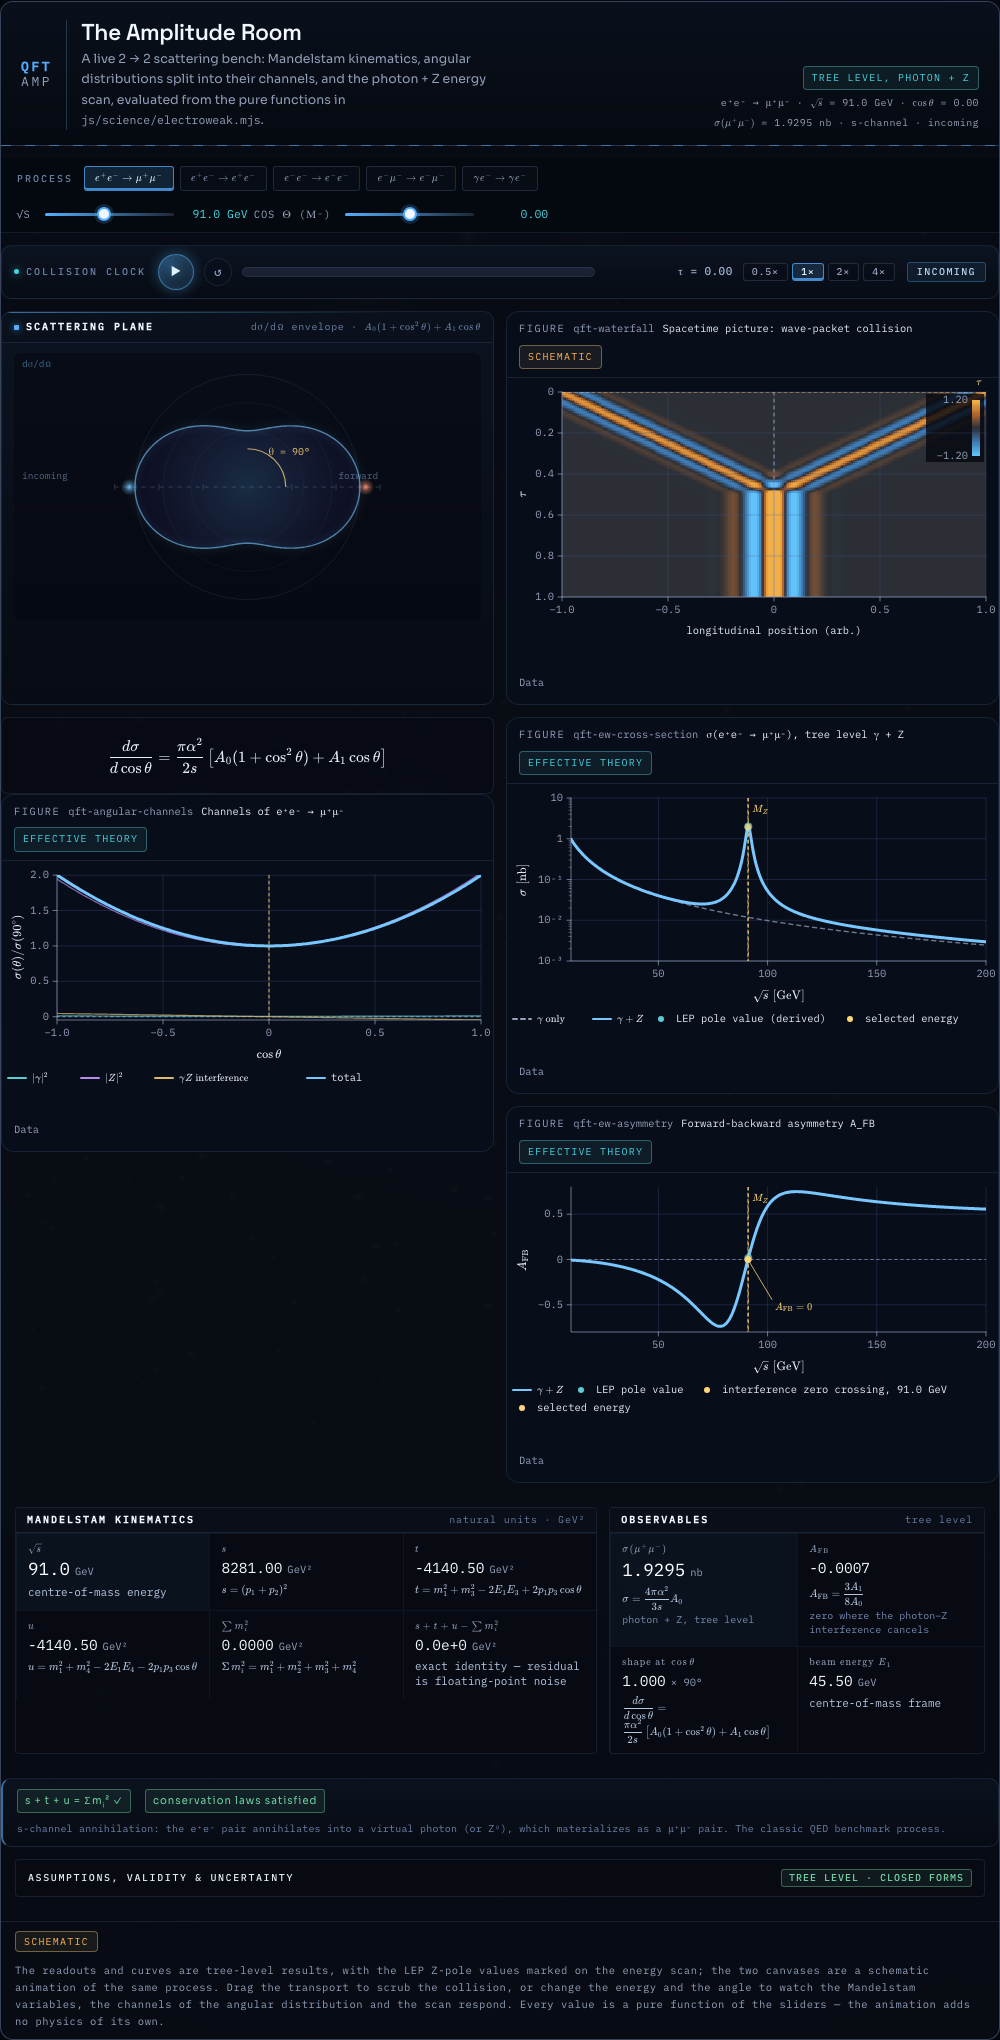
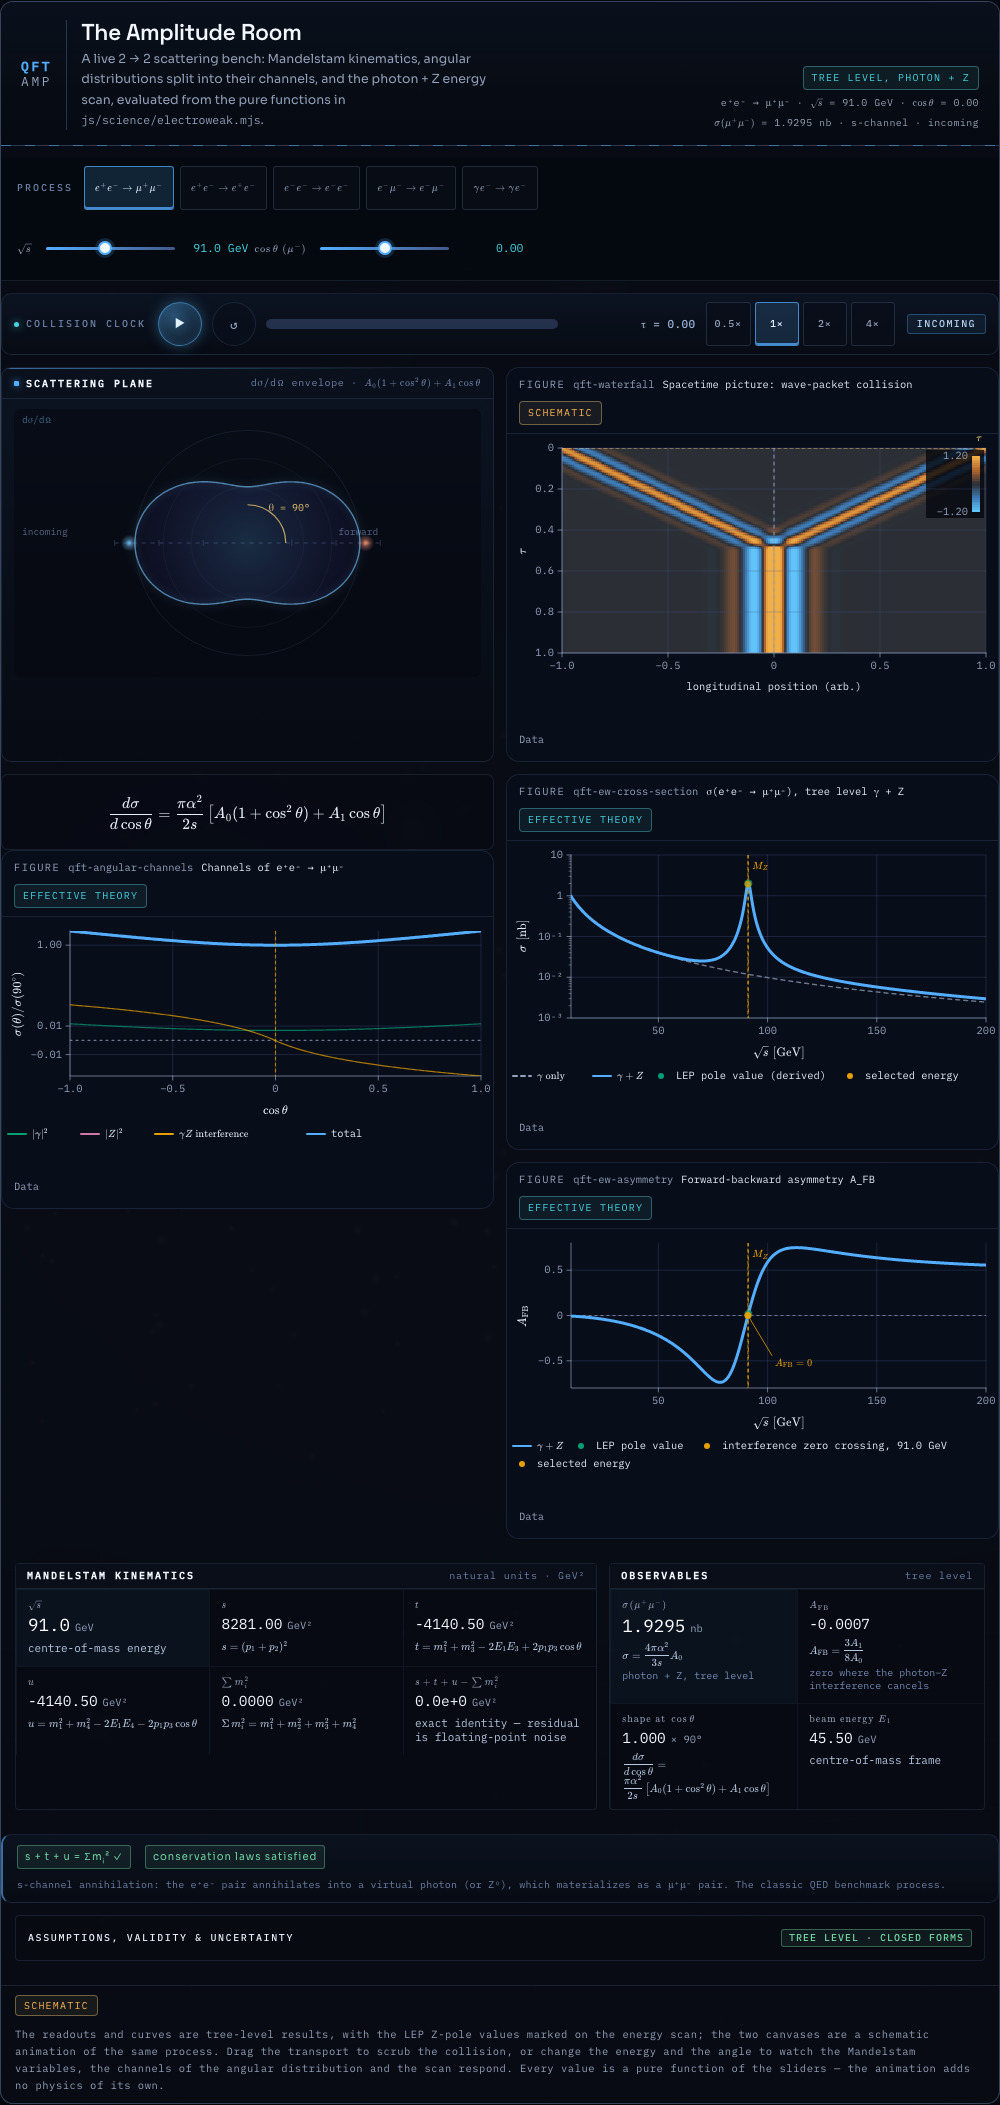
fix(qft): close the gaps of S16 against the art direction and the accessibility rule
Token colours instead of pigments (and the two orphaned pigments removed),
1.5 px diagram strokes, 44 px targets in the amplitude room and the builder,
no sideways overflow at 390 px, KaTeX slider labels, a symmetric-logarithmic
channel figure whose small terms are visible, a legend of every line kind, and
the unused photon and Z-resonance figures removed. Decision D-098.

diff --git a/js/labs/amplitude-room.jsx b/js/labs/amplitude-room.jsx
@@ -9,7 +9,7 @@ const QFT_M_E = 0.51099895e-3; // GeV — electron rest energy (CODATA)
 const QFT_PROCESSES = [
 {
   id: "s-channel",
-  name: "e⁺e⁻ → μ⁺μ⁻", nameTex: "e^+e^-\\to\\mu^+\\mu^-",
+  name: "e⁺e⁻ → μ⁺μ⁻", nameTex: "e^+e^-\\to\\mu^+\\mu^-", angleTex: "\\cos\\theta\\ (\\mu^-)",
   sub: "γ + Z exchange",
   in: ["e-", "e+"], out: ["mu-", "mu+"],
   masses: [0, 0, 0, 0],
@@ -21,7 +21,7 @@ const QFT_PROCESSES = [
 },
 {
   id: "bhabha",
-  name: "e⁺e⁻ → e⁺e⁻", nameTex: "e^+e^-\\to e^+e^-",
+  name: "e⁺e⁻ → e⁺e⁻", nameTex: "e^+e^-\\to e^+e^-", angleTex: "\\cos\\theta\\ (e^-)",
   sub: "Bhabha scattering",
   in: ["e-", "e+"], out: ["e-", "e+"],
   masses: [0, 0, 0, 0],
@@ -33,7 +33,7 @@ const QFT_PROCESSES = [
 },
 {
   id: "moller",
-  name: "e⁻e⁻ → e⁻e⁻", nameTex: "e^-e^-\\to e^-e^-",
+  name: "e⁻e⁻ → e⁻e⁻", nameTex: "e^-e^-\\to e^-e^-", angleTex: "\\cos\\theta\\ (e^-)",
   sub: "Møller scattering",
   in: ["e-", "e-"], out: ["e-", "e-"],
   masses: [0, 0, 0, 0],
@@ -45,7 +45,7 @@ const QFT_PROCESSES = [
 },
 {
   id: "t-channel",
-  name: "e⁻μ⁻ → e⁻μ⁻", nameTex: "e^-\\mu^-\\to e^-\\mu^-",
+  name: "e⁻μ⁻ → e⁻μ⁻", nameTex: "e^-\\mu^-\\to e^-\\mu^-", angleTex: "\\cos\\theta\\ (e^-)",
   sub: "t-channel exchange",
   in: ["e-", "mu-"], out: ["e-", "mu-"],
   masses: [0, 0, 0, 0],
@@ -57,7 +57,7 @@ const QFT_PROCESSES = [
 },
 {
   id: "compton",
-  name: "γe⁻ → γe⁻", nameTex: "\\gamma e^-\\to\\gamma e^-",
+  name: "γe⁻ → γe⁻", nameTex: "\\gamma e^-\\to\\gamma e^-", angleTex: "\\cos\\theta\\ (\\gamma)",
   sub: "Compton scattering",
   in: ["ph", "e-"], out: ["ph", "e-"],
   masses: [0, QFT_M_E, 0, QFT_M_E],
@@ -329,12 +329,12 @@ function AmplitudeRoom() {
           )}
         </div>
         <div className="kerr-control-group" aria-label="Kinematic controls">
-          <SliderRow label="√s" min={1} max={200} step={0.5} value={sqrtS}
+          <SliderRow label="√s" labelTex="\sqrt{s}" min={1} max={200} step={0.5} value={sqrtS}
           onChange={(v) => setAtlasState({ qftSqrtS: v })} format={(v) => v.toFixed(1) + " GeV"}></SliderRow>
-          <SliderRow label={process.angleLabel} min={-1} max={1} step={0.01} value={cosTheta}
+          <SliderRow label={process.angleLabel} labelTex={process.angleTex} min={-1} max={1} step={0.01} value={cosTheta}
           onChange={(v) => setAtlasState({ qftAngle: v })} format={(v) => v.toFixed(2)}></SliderRow>
           {process.id === "compton" ?
-          <SliderRow label="x = E_γ/mₑc²" min={0.05} max={20} step={0.05} value={photonX}
+          <SliderRow label="x = E_γ/mₑc²" labelTex="x=E_\gamma/m_ec^2" min={0.05} max={20} step={0.05} value={photonX}
           onChange={(v) => setAtlasState({ qftPhotonX: v })} format={(v) => v.toFixed(2)}></SliderRow> :
           null}
         </div>

diff --git a/styles/modules/qft.css b/styles/modules/qft.css
@@ -106,6 +106,22 @@
 }
 
 
+/* Touch targets of the amplitude room and the Feynman builder (S16): every control is at least 44 px in both directions. The look is unchanged:
+   the slider track and the progress bar keep their thin drawn size inside a taller hit area. */
+.qft-room .kerr-chip, .qft-room .gw-play-btn, .qft-room .gw-replay-btn { min-width: 44px; min-height: 44px; }
+.qft-room .gw-speed .kerr-chip { padding: 3px 8px; }
+.fey-row select, .qft-room select { min-height: 44px; }
+.qft-room .kerr-validity summary { min-height: 44px; box-sizing: border-box; }
+.qft-room .kerr-control-group { max-width: 100%; box-sizing: border-box; }
+.qft-room .kerr-control-group .ctl-row { max-width: 100%; box-sizing: border-box; }
+.qft-room input[type="range"] { height: 44px; background: transparent; }
+.qft-room input[type="range"]::-webkit-slider-runnable-track { height: 3px; border-radius: 2px; background: linear-gradient(90deg, var(--acc), var(--ink-faint)); }
+.qft-room input[type="range"]::-webkit-slider-thumb { margin-top: -6px; }
+.qft-room input[type="range"]::-moz-range-track { height: 3px; border-radius: 2px; background: linear-gradient(90deg, var(--acc), var(--ink-faint)); }
+.qft-room .gw-progress { position: relative; height: 44px; overflow: visible; background: none; border: 0; border-radius: 0; }
+.qft-room .gw-progress::before { content: ""; position: absolute; left: 0; right: 0; top: 17px; height: 10px; border-radius: 5px; background: var(--ink-faint); opacity: 0.45; }
+.qft-room .gw-progress-fill { position: absolute; left: 0; top: 17px; height: 10px; }
+
 /* Figure Kit panels in the amplitude room. */
 .qft-stack { display: grid; gap: 12px; }
 .qft-formula + .fig, .qft-stack .fig { margin-top: 0; }

diff --git a/js/labs/feynman-diagram.jsx b/js/labs/feynman-diagram.jsx
@@ -4,8 +4,8 @@
 // animation above it carries the motion.
 
 const FEYNMAN_ROLE_TOKENS = {
-  fermion: "pigment-blue-80", photon: "pigment-amber-80", boson: "pigment-amber-89", gluon: "pigment-cyan-80", scalar: "ink-dim",
-  vertex: "accent", momentum: "pigment-blue-63",
+  fermion: "ink", photon: "cat-1", boson: "cat-6", gluon: "cat-7", scalar: "ink-dim",
+  vertex: "accent", momentum: "ink-dim",
 };
 const FEYNMAN_ANCHOR_SHIFT = { start: "translate(0, -50%)", middle: "translate(-50%, -50%)", end: "translate(-100%, -50%)" };
 const FEYNMAN_ARROW = "-4,-3.5 4,0 -4,3.5";
@@ -49,6 +49,18 @@ function FeynmanDiagram({ def, ariaLabel }) {
         )}
       </div>
     </div>);
+
+}
+
+/* The key to the line conventions: one line of every kind the drawing knows, folded away until asked for. */
+function FeynmanLegend() {
+  const def = useMemo(() => window.QGA_FEYNMAN.legendDiagram(), []);
+  return (
+    <details className="fey-legend">
+      <summary>Line conventions</summary>
+      <FeynmanDiagram def={def}
+      ariaLabel="Key to the lines of the diagrams: fermion, antifermion, photon, W or Z boson, gluon and scalar."></FeynmanDiagram>
+    </details>);
 
 }
 

diff --git a/styles/components-scene.css b/styles/components-scene.css
@@ -16,6 +16,9 @@ select:focus { border-color: var(--acc); }
 .fey-diagram-pair { grid-template-columns: repeat(auto-fit, minmax(min(100%, 320px), 1fr)); }
 .fey-diagram-fig { margin: 0; min-width: 0; }
 .fey-diagram-cap { font: var(--step--2) var(--font-mono); letter-spacing: 0.08em; color: var(--text-dim); margin-bottom: 4px; }
+.fey-legend { margin-top: 10px; }
+.fey-legend summary { min-height: 44px; display: flex; align-items: center; cursor: pointer; font: var(--step--2) var(--font-mono); letter-spacing: 0.08em; color: var(--text-dim); }
+.fey-legend summary:focus-visible { outline: 2px solid var(--acc); outline-offset: 2px; }
 .fey-diagram { position: relative; }
 .fey-diagram svg { display: block; width: 100%; height: auto; }
 .fey-tex-layer { position: absolute; inset: 0; pointer-events: none; }

diff --git a/js/core.jsx b/js/core.jsx
@@ -301,10 +301,10 @@ function ModuleHeader({ num, kicker, title, lede, label }) {
 }
 
 /* ---------- controls ---------- */
-function SliderRow({ label, min, max, step, value, onChange, format }) {
+function SliderRow({ label, labelTex, min, max, step, value, onChange, format }) {
   return (
     <div className="ctl-row">
-      <span className="ctl-label">{label}</span>
+      <span className="ctl-label">{labelTex ? <Eq tex={labelTex}></Eq> : label}</span>
       <input type="range" min={min} max={max} step={step} value={value}
         onChange={(e) => onChange(parseFloat(e.target.value))} aria-label={label}></input>
       <span className="ctl-value">{format ? format(value) : value}</span>

diff --git a/styles/components.css b/styles/components.css
@@ -101,6 +101,7 @@ sub, sup { font-size: max(10px, 0.8em); }
 /* ---------- Controls ---------- */
 .ctl-row { display: flex; align-items: center; gap: 12px; min-width: 220px; }
 .ctl-label { font-family: var(--font-mono); font-size: 10.5px; letter-spacing: 0.08em; text-transform: uppercase; color: var(--text-dim); white-space: nowrap; }
+.ctl-label .katex { text-transform: none; }
 .ctl-value { font-family: var(--font-mono); font-size: 11.5px; color: var(--cyan); white-space: nowrap; min-width: 60px; text-align: right; }
 input[type="range"] {
   -webkit-appearance: none; appearance: none; flex: 1; height: 3px; min-width: 90px;

diff --git a/styles/tokens.css b/styles/tokens.css
@@ -271,7 +271,6 @@
   --pigment-blue-83: #b6c8f0;
   --pigment-blue-82: #9fc8ff;
   --pigment-blue-81: #aac3e6;
-  --pigment-blue-80: #aebfdd;
   --pigment-blue-79: #8cbeff;
   --pigment-blue-79-c11: #9db8ff;
   --pigment-blue-78-c05: #aab8d6;
@@ -290,7 +289,6 @@
   --pigment-blue-68: #8899bb;
   --pigment-blue-67: #7896d2;
   --pigment-blue-64: #6e8cc8;
-  --pigment-blue-63: #7e8ba1;
   --pigment-blue-62-c20: #4a7dff;
   --pigment-blue-62: #7a6cff;
   --pigment-blue-60: #5382c8;

diff --git a/js/mod-qft.jsx b/js/mod-qft.jsx
@@ -328,6 +328,7 @@ function FeynmanBuilder() {
         {result.ok ?
         <div>
             <FeynmanDiagramSet result={result} ids={[in1, in2, out1, out2]}></FeynmanDiagramSet>
+            <FeynmanLegend></FeynmanLegend>
             <div className="fey-verdict ok"><strong>Allowed at tree level.</strong> {result.note}</div>
             {phys ?
           <div className="fey-phys-grid">

diff --git a/docs/render/electroweak-feynman.md b/docs/render/electroweak-feynman.md
@@ -57,11 +57,11 @@ Massless, spin averaged: `<|M|^2> = 2 e^4 [ (s^2+u^2)/t^2 + 2u^2/(st) + (t^2+u^2
 
 ## Diagrams
 
-`layoutDiagram` returns paths, arrows, dots, labels and momentum arrows for `{ vertices, edges }`. Fermion arrows sit at `t = 0.5` of the segment (reversed for an antifermion); a photon is a sine of an integer number of half-periods, so it starts and ends on its vertices; a gluon is a trochoid whose loop count is proportional to its length; a scalar is dashed; internal vertices are dots of 3 px; labels are KaTeX spans over the SVG; momentum arrows are offset parallel to the edge. Colours are tokens read in `js/labs/feynman-diagram.jsx`; the module has none. The builder draws every tree diagram of the process: s and t for Bhabha, t and u for Møller, s and u for Compton. The old streaming animation of the lines and the travelling dot were removed with `FeynmanSVG`; the 3-D collision above still moves.
+`layoutDiagram` returns paths, arrows, dots, labels and momentum arrows for `{ vertices, edges }`. Fermion arrows sit at `t = 0.5` of the segment (reversed for an antifermion); a photon is a sine of an integer number of half-periods, so it starts and ends on its vertices; a gluon is a trochoid whose loop count is proportional to its length; a scalar is dashed; internal vertices are dots of 3 px; labels are KaTeX spans over the SVG; momentum arrows are offset parallel to the edge. Strokes are 1.5 px (momentum arrows 1 px), the limit of the art direction for engraved geometry. Colours are tokens read in `js/labs/feynman-diagram.jsx` (ink, the categorical set and the accent, not the frozen pigments); the module has none. A folded "Line conventions" key under the builder draws every kind the module knows (`legendDiagram`), including the gluon, the W or Z boson and the scalar, which no process diagram uses. The builder draws every tree diagram of the process: s and t for Bhabha, t and u for Møller, s and u for Compton. The old streaming animation of the lines and the travelling dot were removed with `FeynmanSVG`; the 3-D collision above still moves.
 
 ## Figures and the shared axis
 
-`crossSectionSpec` (log y) and `asymmetrySpec` are two Figure Kit figures with the same x range, the same ticks and `minLeft = 64`, a new optional spec field that fixes the least left margin so both plot rectangles coincide (`test/figure-layout.test.mjs`). The focal mark of each is the gamma + Z model line; the Z pole is a rule, the LEP points are on the data layer, the interference zero crossing is a marked point with a callout. `channelsSpec` draws the terms of the selected process as thin lines and their sum as the focal line.
+`crossSectionSpec` (log y) and `asymmetrySpec` are two Figure Kit figures with the same x range, the same ticks and `minLeft = 64`, a new optional spec field that fixes the least left margin so both plot rectangles coincide (`test/figure-layout.test.mjs`). The focal mark of each is the gamma + Z model line; the Z pole is a rule, the LEP points are on the data layer, the interference zero crossing is a marked point with a callout. `channelsSpec` draws the terms of the selected process as thin lines and their sum as the focal line, on a symmetric-logarithmic axis (linear within 0.01 of the 90 degree value) so the photon term on the Z pole and a Coulomb pole share one axis. Every control of the room and the builder is at least 44 px (`styles/modules/qft.css`), with the drawn size of the slider tracks and of the progress bar unchanged.
 
 ## Checks
 

diff --git a/docs/render/figure-kit.md b/docs/render/figure-kit.md
@@ -76,7 +76,7 @@ Ticks are nice 1-2-5 numbers inside the domain; log axes label decades as 10^n a
 | `bh-hawking-spectrum`, `bh-page-curve`, `bh-kerr-radii` | `mod-blackholes.jsx` | emitter line and band; two curves and a rule; nested circles |
 | `gr-effective-potential`, `gr-null-geodesics`, `gr-lensed-sky` | `mod-gr.jsx` | GR and Newtonian curves with turning points and a live marker; rays and circles; ring chrome over the rendered sky |
 | `rg-scale-trajectory`, `rg-beta-function` | `mod-gauge-rg.jsx` | trajectory, fixed-point rules, selected-scale marker; beta curve with phase-line triangles |
-| `qft-dispersion`, `qft-waterfall`, `qft-angular-distribution`, `qft-photon-cross-section`, `qft-z-resonance` | `mod-qft.jsx` | lines, diverging heat map, log axis |
+| `qft-dispersion`, `qft-waterfall`, `qft-angular-distribution`, `qft-angular-channels`, `qft-ew-cross-section`, `qft-ew-asymmetry` | `mod-qft.jsx`, `labs/amplitude-room.jsx` | lines, diverging heat map, log and symlog axes; the two energy figures are stacked over one plot rectangle (`minLeft`) |
 | `experiments-dielectron-mass`, `gw-strain-generated` / `gw-strain-observation`, `gw-spectrogram` | `mod-experiments.jsx` | step and points with Poisson errors; ghost and revealed traces with phase bands; magma heat map with the chirp track |
 
 Plot data come from the same functions as before (`js/physics.mjs`); `test/figure-plots.test.mjs` checks values against the closed forms.
